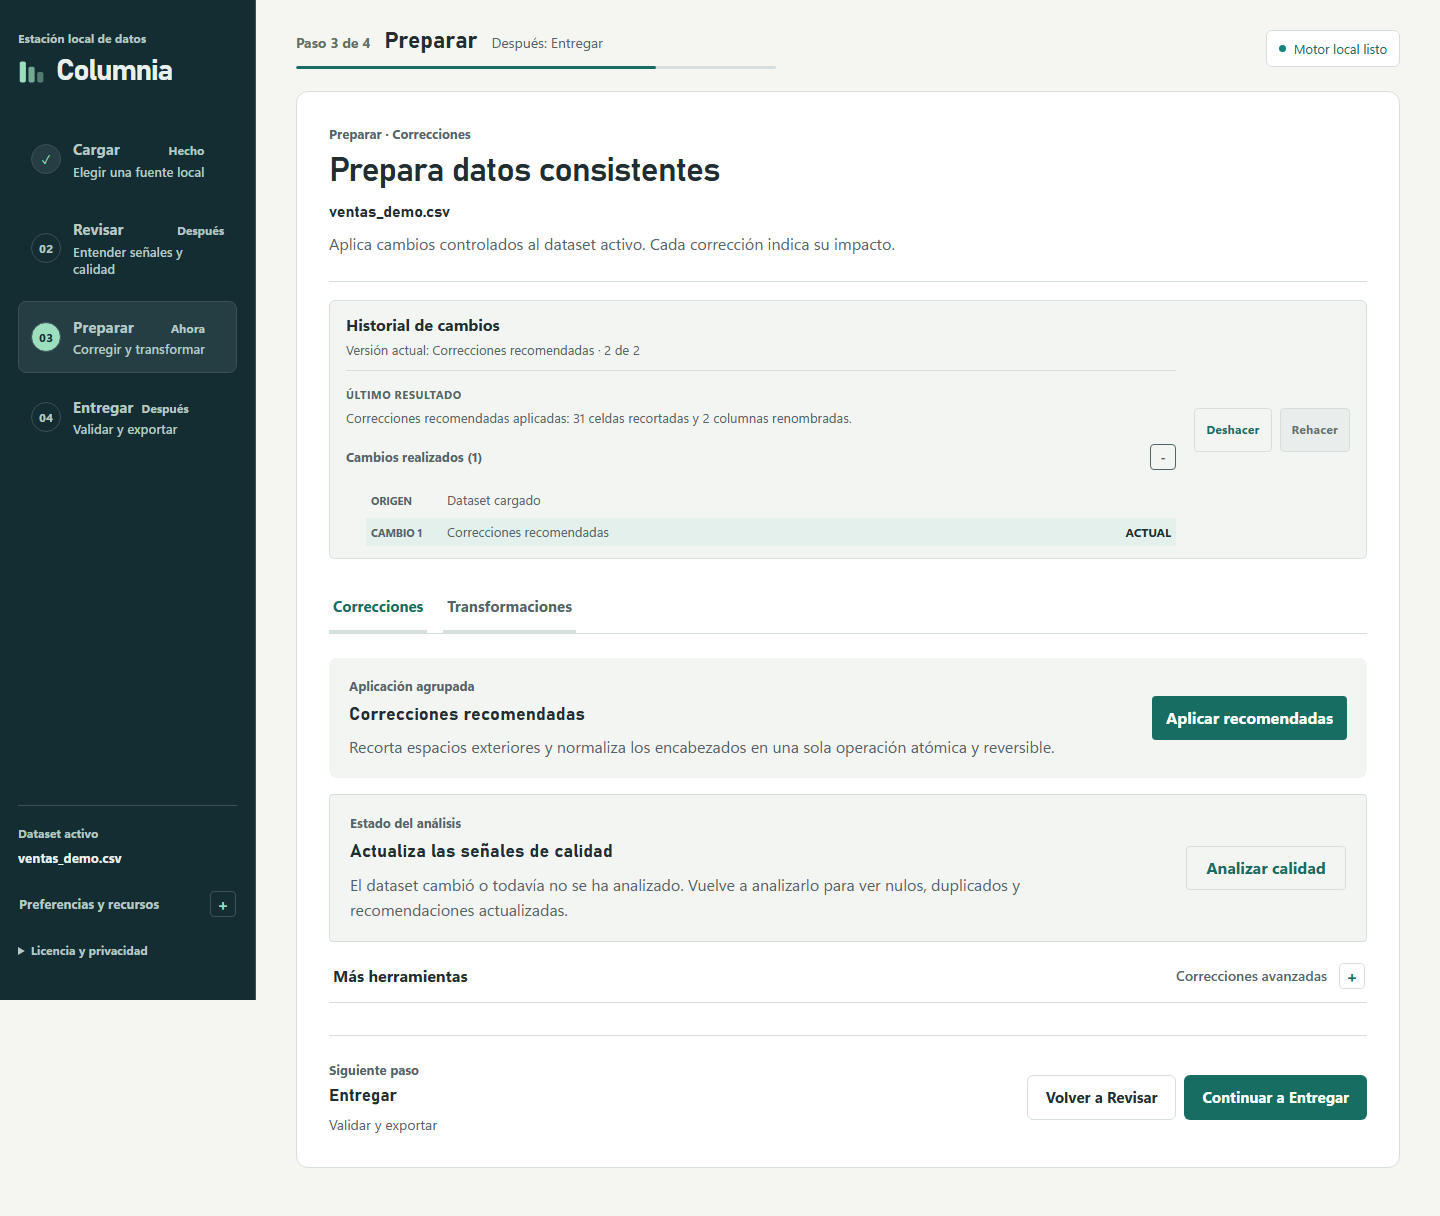
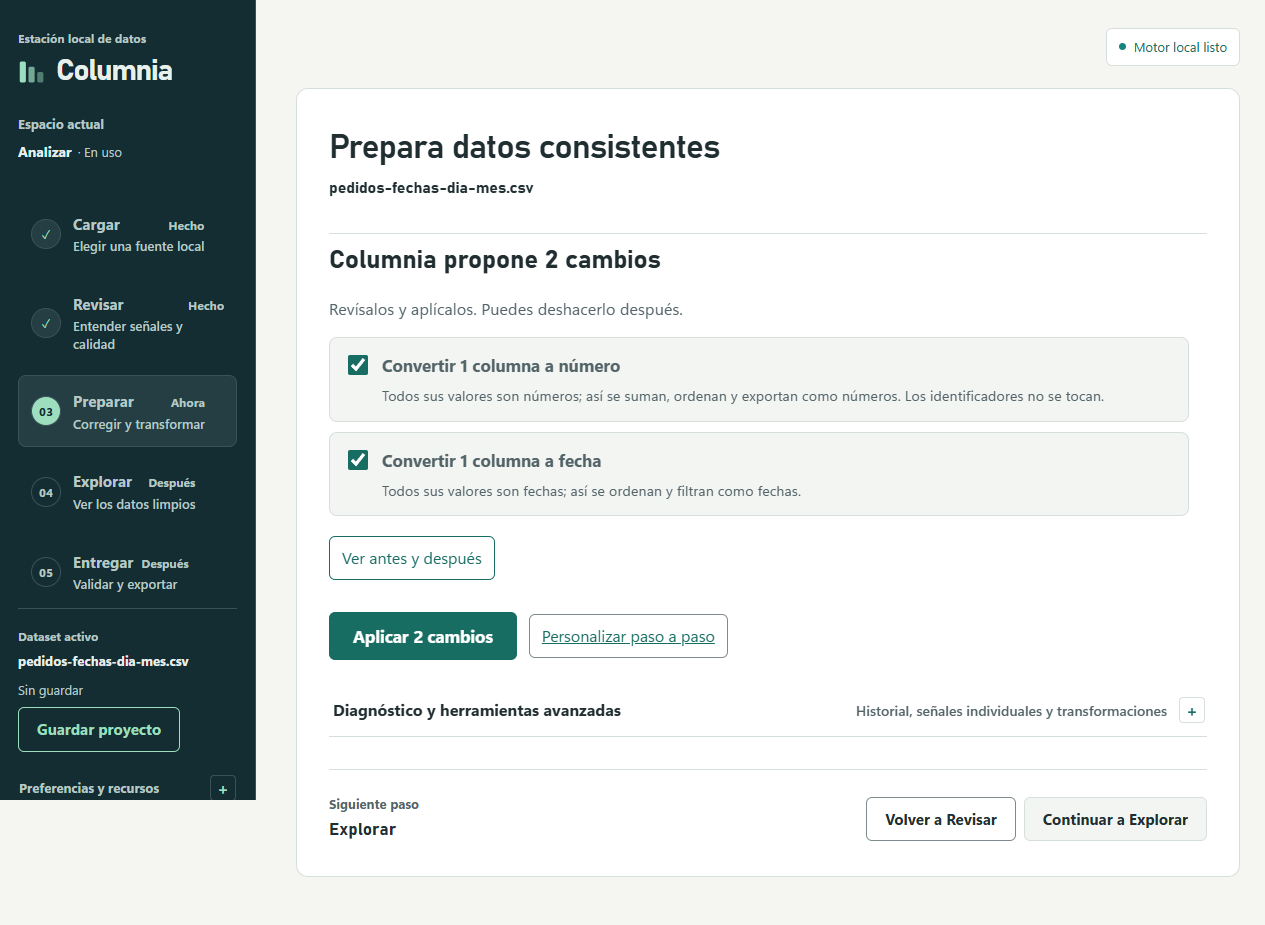
docs(gallery): capturas de la app real con las cinco etapas y plantillas Beta sin Gate 2 (DOC-17, RV105)
LEG-01 queda abierto: requiere revisión legal antes de distribuir binarios.

diff --git a/docs/templates/beta-summary.md b/docs/templates/beta-summary.md
@@ -1,7 +1,7 @@
 # Resumen sanitizado de beta de Columnia
 
 > Copiar este archivo a `docs/reference/beta-v1-summary.md` al cerrar el Gate 1
-> y actualizarlo con la comparación del Gate 2. No incluir nombres, rutas,
+> (la segunda ronda de comparación está archivada). No incluir nombres, rutas,
 > columnas, filas, consultas, capturas, credenciales ni datos identificables.
 
 Los alias anónimos de participantes y datasets permanecen en los formularios
@@ -11,7 +11,7 @@ locales de `.local/beta/`; aquí solo se publican los conteos agregados.
 
 | Campo | Valor |
 | --- | --- |
-| Gate | Gate 1 · baseline V1 / Gate 2 · shell de espacios |
+| Gate | Gate 1 · baseline V1 |
 | Release candidate | rc-___ |
 | Commit probado | ___ |
 | Versión de Columnia | ___ |
@@ -49,7 +49,7 @@ Todas las personas completaron Cargar → Revisar → Preparar → Entregar: sí
 
 ## Fricción agregada
 
-| Métrica | Gate 1 baseline | Gate 2 shell | Cambio | Reducción |
+| Métrica | Gate 1 baseline | Segunda ronda (archivada) | Cambio | Reducción |
 | --- | ---: | ---: | ---: | ---: |
 | Acciones de navegación | ___ | ___ | ___ | ___ % |
 | Datos reintroducidos | ___ | ___ | ___ | ___ % |
@@ -57,9 +57,9 @@ Todas las personas completaron Cargar → Revisar → Preparar → Entregar: sí
 | Eventos de ayuda | ___ | ___ | ___ | ___ % |
 | Momentos de duda | ___ | ___ | ___ | ___ % |
 
-Calcula la reducción como `(baseline - Gate 2) / baseline × 100`. Si el baseline
+Si se retoma la segunda ronda, calcula la reducción como `(baseline - segunda ronda) / baseline × 100`. Si el baseline
 es cero, informa `N/A`: la métrica ya estaba en su mínimo y no puede usarse para
-afirmar una reducción. La consolidación de Analizar exige al menos 20 % menos
+afirmar una reducción. La consolidación de la navegación exige al menos 20 % menos
 acciones de navegación o datos reintroducidos, sin empeorar los gates de V1.
 
 ## Persistencia y entrega
@@ -84,7 +84,7 @@ Los P2/P3 aceptados tienen responsable: sí / no.
 ## Veredicto
 
 - Gate 1 V1: aprobado / pendiente.
-- Gate 2 shell: aprobado / pendiente / todavía no ejecutado.
+- Segunda ronda (archivada): no se ejecuta mientras la beta esté aparcada.
 - 80 % sin ayuda: aprobado / fallido.
 - Cero P0/P1 abiertos: aprobado / fallido.
 - Revisión de privacidad del resumen: aprobado / pendiente.

diff --git a/README.md b/README.md
@@ -12,7 +12,7 @@
 
 > **Estado:** aplicación local de uso personal, con compilación y pruebas automatizadas verificadas en Windows x64. La beta con participantes, la prueba con lector de pantalla y la distribución están aparcadas (ver [`ROADMAP.md`](ROADMAP.md)). macOS/Linux no están validados. El [repositorio](https://github.com/BernieJimenez/Columnia) publica solo el código fuente: no hay instaladores oficiales ni updater.
 
-![Recorrido por Cargar, Revisar, Preparar y Entregar en Columnia; la animación no incluye Explorar](docs/images/gallery/00-recorrido.gif)
+![Recorrido por Cargar, Revisar, Preparar, Explorar y Entregar en Columnia](docs/images/gallery/00-recorrido.gif)
 
 ## Qué hace Columnia
 
@@ -27,11 +27,11 @@
 
 Columnia sigue cinco etapas: Cargar, Revisar, Preparar, Explorar y Entregar.
 
-### 1. Cargar y guardar el proyecto
+### 1. Cargar
 
-Selecciona un dataset, revisa su tamaño y conserva el espacio de trabajo localmente.
+Selecciona un dataset y comprueba cómo se leen sus columnas antes de abrirlo; el espacio de trabajo se puede guardar como proyecto local.
 
-![Proyecto local guardado en la etapa Cargar](docs/images/gallery/01-cargar.png)
+![Revisión de encabezados de un CSV en la etapa Cargar](docs/images/gallery/01-cargar.png)
 
 ### 2. Revisar la calidad
 
@@ -48,6 +48,8 @@ Aplica correcciones agrupadas y usa el historial para deshacer o rehacer cambios
 ### 4. Explorar
 
 Mira los datos ya preparados en un panel con indicadores, barras, histograma y tendencia; cada gráfico filtra a los demás.
+
+![Panel de la etapa Explorar con indicadores, barras e histograma](docs/images/gallery/04-explorar.png)
 
 ### 5. Validar y entregar
 

diff --git a/ROADMAP.md b/ROADMAP.md
@@ -550,8 +550,8 @@ medio = 1 día; agregado por suma.
   - [x] `DOC-16` (Bajo) Guías de beta, NVDA y release: referencias a niveles retirados, flujo sin «Explorar» y 0.95.0 otra vez — hecho el 2026-10-07
 - [ ] **RV105** — **Documentación** — Galería del README fechada antes de los rediseños y de Explorar; plantillas beta con «Gat… (y 1 problemas más) · *Esfuerzo: 1,2 días*
   - Criterio de cierre: Se cumplen los criterios de aceptación de DOC-17, LEG-01.
-  - [ ] `DOC-17` (Bajo) Galería del README fechada antes de los rediseños y de Explorar; plantillas beta con «Gate 2 · shell de espacios»
-  - [ ] `LEG-01` (Bajo) THIRD_PARTY_NOTICES no incluye textos de licencia ni titulares de copyright; mezcla dependencias de otras plataformas y de desarrollo
+  - [x] `DOC-17` (Bajo) Galería del README fechada antes de los rediseños y de Explorar; plantillas beta con «Gate 2 · shell de espacios» — hecho el 2026-10-07
+  - [ ] `LEG-01` (Bajo) THIRD_PARTY_NOTICES no incluye textos de licencia ni titulares de copyright; mezcla dependencias de otras plataformas y de desarrollo — Requiere tu decisión: los textos completos de licencia y copyright solo hacen falta si se distribuyen binarios (aparcado) y conviene que los revise un profesional; el SBOM ya distingue lo que lleva el instalador (LIM-14)
 
 ### Tier 4 — Futuro u opcional
 

diff --git a/CHANGELOG.md b/CHANGELOG.md
@@ -207,6 +207,11 @@ hasta el corte, y los perfiles de publicación exigen crear antes la sección
 
 ### Corregido
 
+- Galería del README regenerada con la app real y datos sintéticos (2026-10-07):
+  Cargar, Revisar, Preparar, Explorar y Entregar tienen captura nueva y el GIF
+  recorre las cinco etapas; las plantillas Beta ya no miden un «Gate 2» activo
+  ni prometen trabajar sobre una copia. Las capturas de vista previa y SQL local
+  conservan su fecha anterior.
 - Documentación al día: el README y el tutorial piden Rust 1.98.1, Node, npm y
   las Build Tools con su carga, presentan las cinco etapas (con Explorar) y
   dejan la beta como aparcada; CONTEXTO ya no cita scripts que no existen; las

diff --git a/docs/templates/beta-invitation.md b/docs/templates/beta-invitation.md
@@ -26,7 +26,7 @@ cómo la usas con tus propios archivos, sin que yo te explique nada.
 **Tu privacidad:**
 
 - Todo ocurre en tu equipo. Columnia no envía datos a internet ni tiene cuentas.
-- Tu archivo original no se modifica; se trabaja sobre una copia.
+- Tu archivo original no se modifica: Columnia lo lee y lo que entregas es un archivo nuevo.
 - No grabo tu pantalla ni me quedo con tus archivos, filas, rutas o nombres de
   columnas. Solo anoto tiempos, dónde dudaste y qué te pareció, con un alias.
 

diff --git a/docs/templates/beta-session.md b/docs/templates/beta-session.md
@@ -12,7 +12,7 @@
 | Alias anónimo de participante | participante-___ |
 | Commit probado | ___ |
 | Versión de Columnia | ___ |
-| Ronda de medición | Gate 1 · baseline V1 / Gate 2 · shell de espacios |
+| Ronda de medición | Gate 1 · baseline V1 |
 | Release candidate | rc-___ |
 | Windows / arquitectura | ___ |
 | Experiencia con datos | inicial / intermedia / avanzada |
